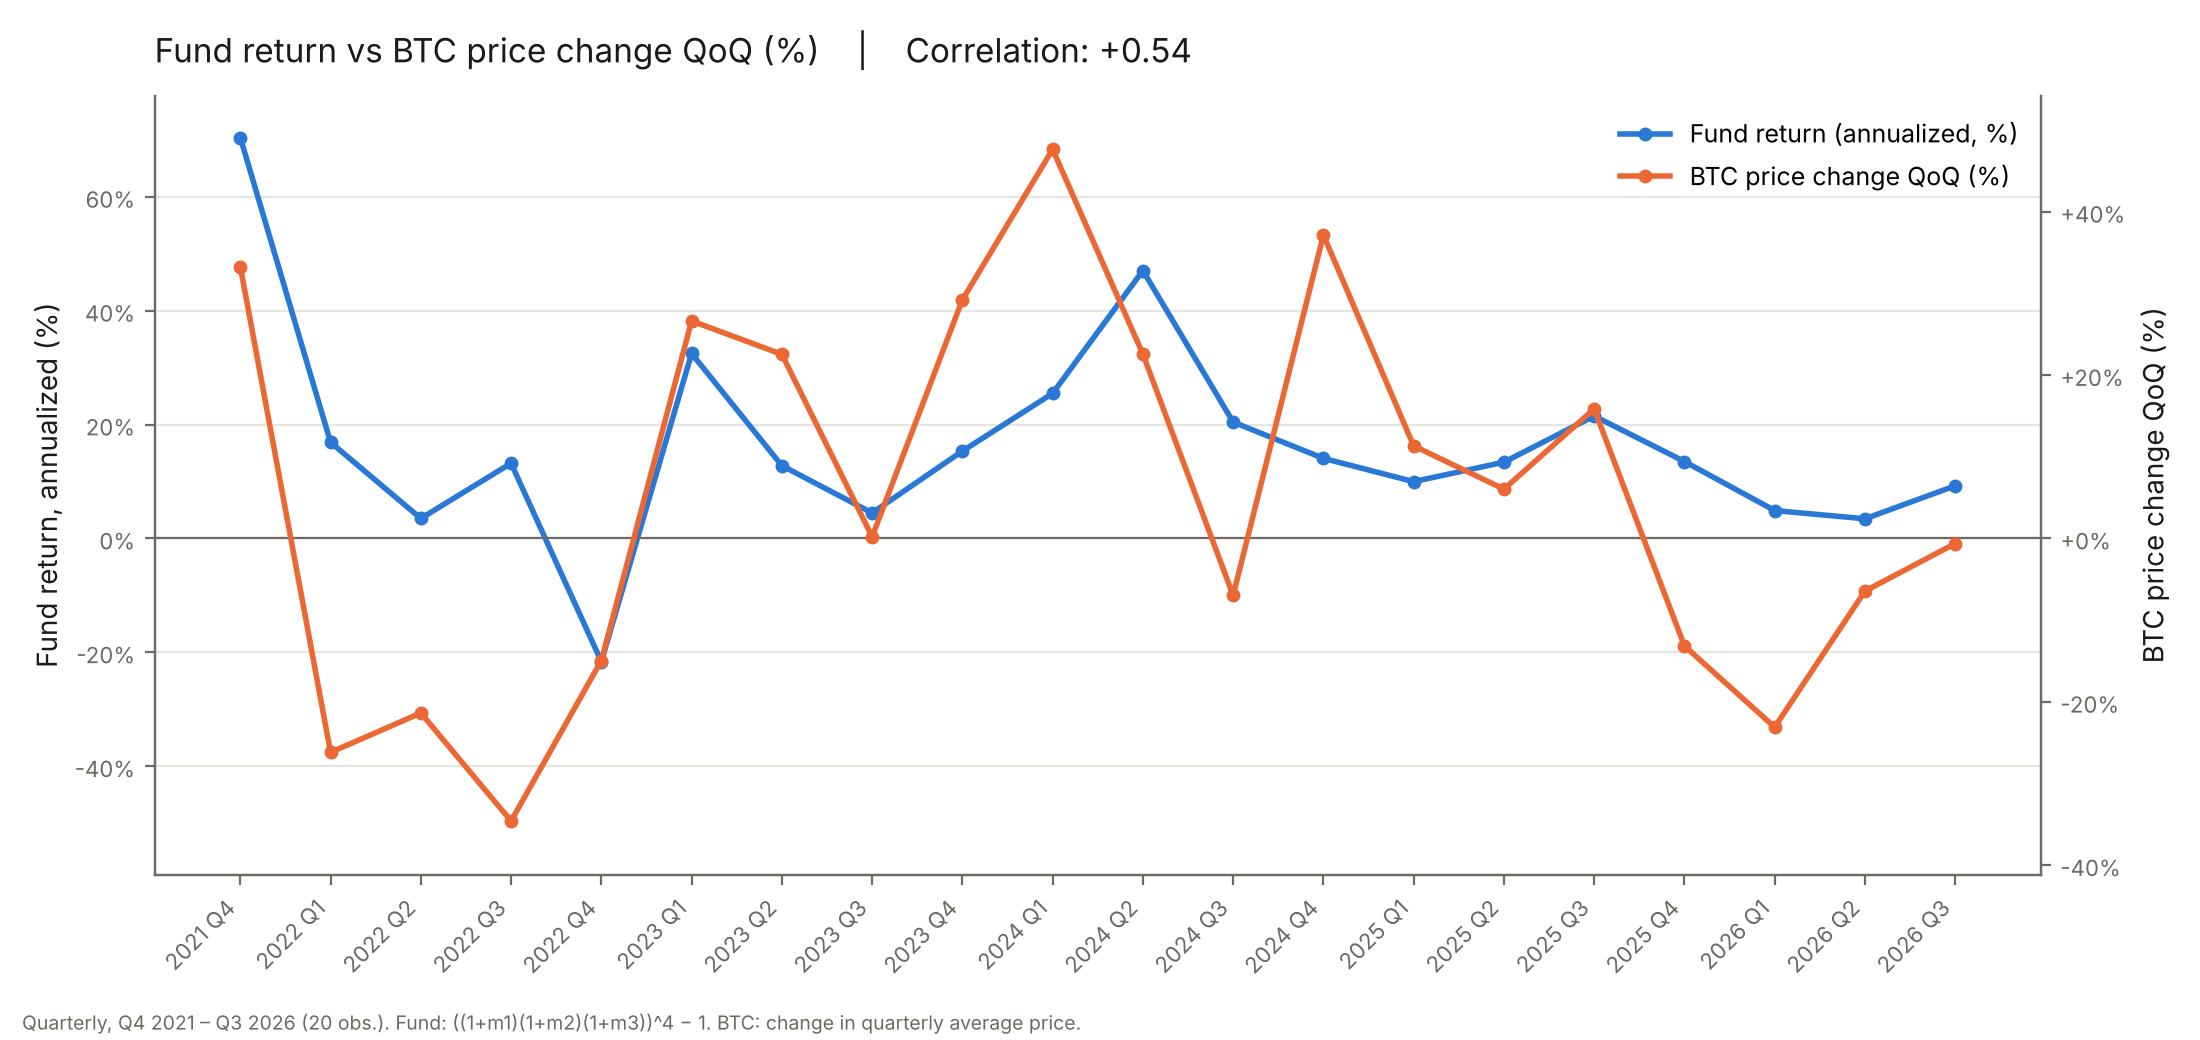
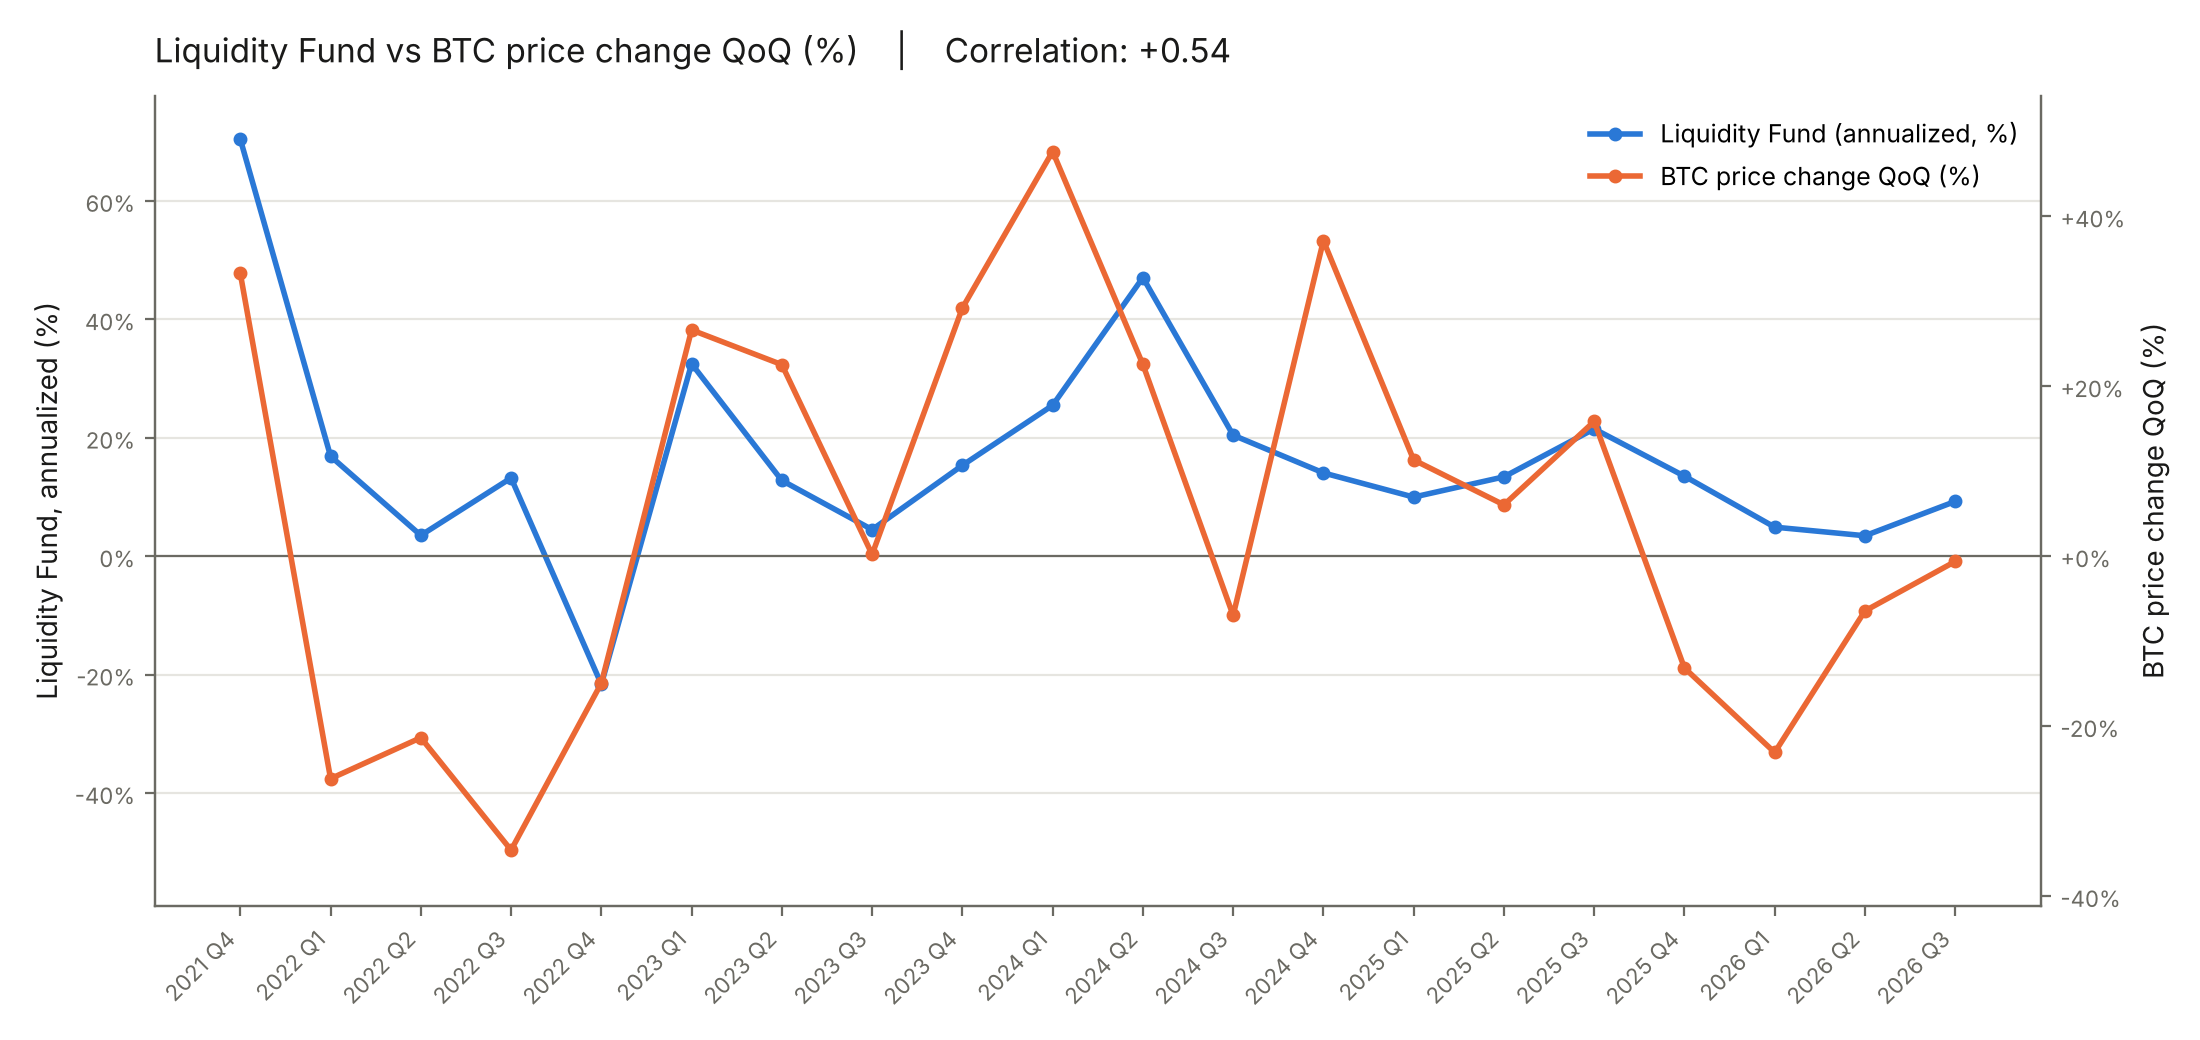
Relabel as Liquidity Fund, drop footnote, per-factor colors
Claude-Session: https://claude.ai/code/session_016ZFAXGV724LMrLQs3f2FnL

diff --git a/analyses/fund-correlation/charts.py b/analyses/fund-correlation/charts.py
@@ -20,16 +20,16 @@ labels = q[1:]
 
 FUND, OTHER, INK, MUTED, GRID = "#2a78d6", "#eb6834", "#1a1a19", "#6b6a63", "#e6e5e0"
 
-def chart(y, name, unit_fmt, fname, note):
+def chart(y, name, unit_fmt, fname, color):
     r = np.corrcoef(fund, y)[0, 1]
     fig, ax = plt.subplots(figsize=(11, 5.2), dpi=200)
     x = np.arange(len(labels))
-    ax.plot(x, fund, color=FUND, lw=2, marker="o", ms=4, label="Fund return (annualized, %)")
+    ax.plot(x, fund, color=FUND, lw=2, marker="o", ms=4, label="Liquidity Fund (annualized, %)")
     ax.axhline(0, color=MUTED, lw=0.8)
-    ax.set_ylabel("Fund return, annualized (%)", color=INK)
+    ax.set_ylabel("Liquidity Fund, annualized (%)", color=INK)
     ax.yaxis.set_major_formatter(FuncFormatter(lambda v, _: f"{v:.0f}%"))
     ax2 = ax.twinx()
-    ax2.plot(x, y, color=OTHER, lw=2, marker="o", ms=4, label=name)
+    ax2.plot(x, y, color=color, lw=2, marker="o", ms=4, label=name)
     ax2.set_ylabel(name, color=INK)
     ax2.yaxis.set_major_formatter(FuncFormatter(unit_fmt))
     # align zero on both axes
@@ -47,16 +47,15 @@ def chart(y, name, unit_fmt, fname, note):
         for s in ("top",): a.spines[s].set_visible(False)
         a.spines["left"].set_color(MUTED); a.spines["right"].set_color(MUTED); a.spines["bottom"].set_color(MUTED)
         a.tick_params(colors=MUTED, labelsize=8)
-    ax.set_title(f"Fund return vs {name}    |    Correlation: {r:+.2f}", loc="left", fontsize=12, color=INK, pad=12)
+    ax.set_title(f"Liquidity Fund vs {name}    |    Correlation: {r:+.2f}", loc="left", fontsize=12, color=INK, pad=12)
     h = ax.get_legend_handles_labels(); h2_ = ax2.get_legend_handles_labels()
     ax.legend(h[0] + h2_[0], h[1] + h2_[1], loc="upper right", frameon=False, fontsize=9)
-    fig.text(0.01, 0.01, "Quarterly, Q4 2021 – Q3 2026 (20 obs.). Fund: ((1+m1)(1+m2)(1+m3))^4 − 1. " + note, fontsize=7, color=MUTED)
-    fig.tight_layout(rect=(0, 0.03, 1, 1))
+    fig.tight_layout(rect=(0, 0, 1, 1))
     fig.savefig(f"{out}/{fname}", facecolor="white")
     print(fname, f"r={r:+.4f}", "right-axis range", y.min().round(2), y.max().round(2))
 
 pct = lambda v, _: f"{v:+.0f}%"
 pp = lambda v, _: f"{v:+.2f} pp"
-chart(btc_chg, "BTC price change QoQ (%)", pct, "1_fund_vs_btc.png", "BTC: change in quarterly average price.")
-chart(t3_chg, "US 3M Treasury change (pp)", pp, "2_fund_vs_ust3m.png", "Treasury: change in quarterly average yield, in percentage points.")
-chart(t10_chg, "US 10Y Treasury change (pp)", pp, "3_fund_vs_ust10y.png", "Treasury: change in quarterly average yield, in percentage points.")
+chart(btc_chg, "BTC price change QoQ (%)", pct, "1_fund_vs_btc.png", "#eb6834")
+chart(t3_chg, "US 3M Treasury change (pp)", pp, "2_fund_vs_ust3m.png", "#d63c3c")
+chart(t10_chg, "US 10Y Treasury change (pp)", pp, "3_fund_vs_ust10y.png", "#008300")
